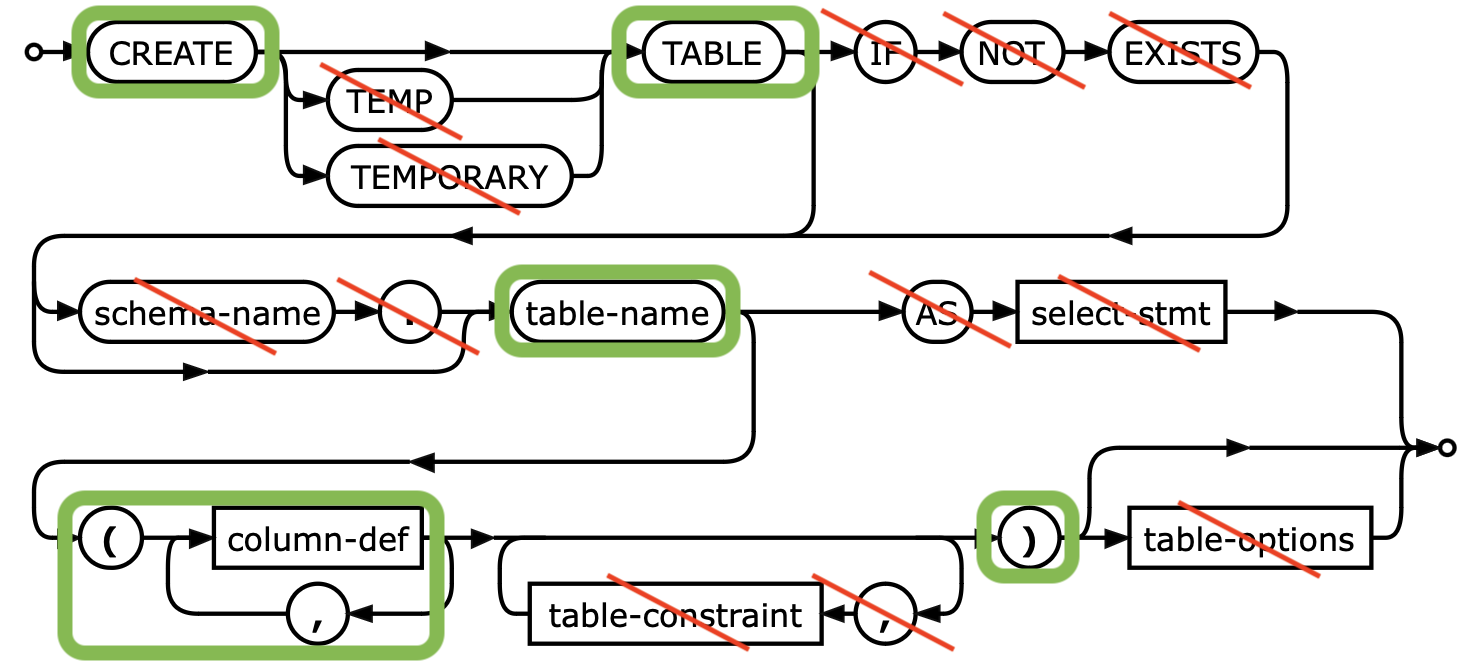
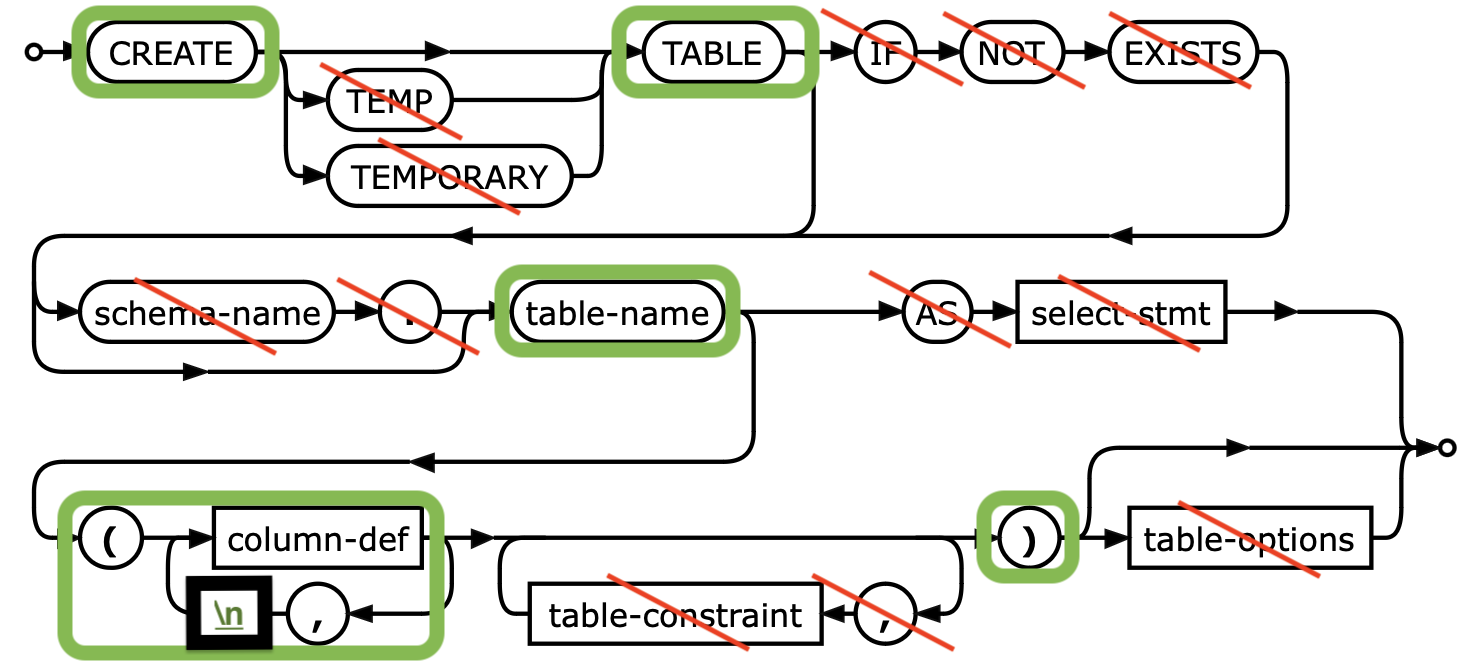
[F]: tested against current worthy db schema; fixed handling comments

Changed region(s): [[0.1248, 0.8383, 0.1872, 0.988]]

diff --git a/src/parse.js b/src/parse.js
@@ -57,7 +57,7 @@ export const parseQuery = (sqlcode) => {
 };
 
 const SQL_TABLE_DELITMER = "CREATE";
-const SQL_TABLE_NAME_REGEX = /(TABLE|table) +(\S+) +\S/g;
+const SQL_TABLE_NAME_REGEX = /(TABLE|table)\s+(\w+)/g;
 const SQL_TABLE_NAME_REGEX_GROUP_INDEX = 2;
 /**
  * @param {string} sqlcode
@@ -65,25 +65,38 @@ const SQL_TABLE_NAME_REGEX_GROUP_INDEX = 2;
  */
 export const parseSchema = (sqlcode) => {
   const tableDeclarations = sqlcode
+    .replaceAll(/--[^\n]*\n/g, "\n")
     .split(SQL_TABLE_DELITMER)
     .map((a) => a.trim())
     .filter(Boolean);
 
   const tableNames = tableDeclarations
-    .map((a) => SQL_TABLE_NAME_REGEX.exec(a))
-    .map((m) => {
+    .map((a) => {
+      const res = SQL_TABLE_NAME_REGEX.exec(a);
+      SQL_TABLE_NAME_REGEX.lastIndex = 0;
+      return res;
+    })
+    .map((m, i) => {
       if (m === null) {
-        throw new Error("Cant find table name");
+        throw new Error(
+          "Cant find table name in declaration: \n" + tableDeclarations[i],
+        );
       }
       return m[SQL_TABLE_NAME_REGEX_GROUP_INDEX];
     });
 
   const tablesFields = tableDeclarations.map((declaration) =>
     declaration
-      .split("(")[1]
-      .split(")")[0]
-      .split(",")
+      .split("(")
+      .slice(1)
+      .join("(")
+      // ^ take everything after first "(" and return removed "("
+      .split(/\)[^\)]*;$/)[0]
+      // ^ take everything before last ")"+{all symbols that are not ")"}+";"
+      .split(/, *\n/)
+      // ^ split by comma+trailing spaces if they exis+\n
       .map((field) => field.trim())
+      .filter(Boolean)
       .map((field) => {
         const name = field.split(" ")[0];
         const type = field.split(" ")[1];

diff --git a/tests/__gen/schema.go b/tests/__gen/schema.go
@@ -7,7 +7,29 @@ type Queries struct {
 }
 
 type User struct {
+Primary_currency string `db:"primary_currency"`
+Username string `db:"username"`
+Password string `db:"password"`
+Image string `db:"image"`
 Id int `db:"id"`
-Fk string `db:"fk"`
+Balance int `db:"balance"`
+}
+
+
+type Transaction struct {
+Description string `db:"description"`
+Currency string `db:"currency"`
+Id int `db:"id"`
+Owner_id int `db:"owner_id"`
+Amount int `db:"amount"`
+Is_income int `db:"is_income"`
+Created_at int `db:"created_at"`
+}
+
+
+type Tag struct {
 Text string `db:"text"`
+Id int `db:"id"`
+User_id int `db:"user_id"`
+Transaction_id int `db:"transaction_id"`
 }

diff --git a/README.md b/README.md
@@ -9,8 +9,11 @@
 
 Table definition:
 
+Each column must start with new string!
+
 ![create-table-stmt](./docs/images/create-table-stmt.png)
 
-If in column definitions tokens `PRIMARY KEY` or `NOT NULL` not found codegen outputs warning
+If in column definitions, tokens `PRIMARY KEY` or `NOT NULL`
+are not found, codegen outputs warning
 
 Original docs: <https://www.sqlite.org/lang_createtable.html>
